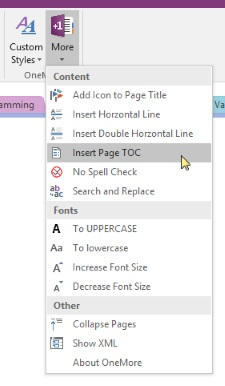
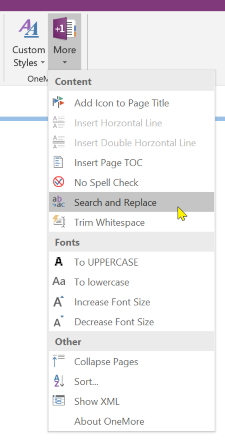
add sort command

Changed region(s): [[0.0, 0.0, 1.0, 0.9948], [0.0, 0.1865, 0.0311, 0.2176]]

diff --git a/OneMoreAddIn/Commands/SortCommand.cs b/OneMoreAddIn/Commands/SortCommand.cs
@@ -1,5 +1,5 @@
 //************************************************************************************************
-// Copyright © 2016 Steven M Cohn.  All rights reserved.
+// Copyright © 2019 Steven M Cohn.  All rights reserved.
 //************************************************************************************************
 
 namespace River.OneMoreAddIn
@@ -36,7 +36,7 @@ namespace River.OneMoreAddIn
 		{
 			logger.WriteLine("SortCommand.Execute()");
 
-			DialogResult result = DialogResult.None;
+			var result = DialogResult.None;
 
 			using (var dialog = new SortDialog())
 			{
@@ -71,15 +71,20 @@ namespace River.OneMoreAddIn
 
 						if (scope == HierarchyScope.hsNotebooks)
 						{
+							// notebooks is a simple flat list
 							root = SortNotebooks(root, sorting, direction);
 						}
 						else
 						{
 							// sections will include all sections for the current notebook
+							root = SortSections(root, sorting, direction);
 						}
 					}
 
-					manager.UpdateHierarchy(root);
+					if (root != null)
+					{
+						manager.UpdateHierarchy(root);
+					}
 				}
 			}
 		}
@@ -94,6 +99,11 @@ namespace River.OneMoreAddIn
 			 *		dateTime="2018-01-24T03:23:12.000Z"
 			 *		lastModifiedTime="2019-10-26T12:56:53.000Z"
 			 *		pageLevel="1" />
+			 *		
+			 * Pages within a section are stored as a flat list of elements with
+			 * indented pages indicated by pageLevel only - they are not recursive children.
+			 * So the code below must group child pages with their parent so all parents
+			 * can be sorted correctly. Children are not sorted.
 			 */
 
 			string keyName;
@@ -104,35 +114,31 @@ namespace River.OneMoreAddIn
 
 			var ns = root.GetNamespaceOfPrefix("one");
 
-			/*
-			var pages =
-				from p in root.Elements(ns + "Page")
-				// keep only printable characters (don't sort on title emoticons!)
-				let key = Regex.Replace(p.Attribute(keyName).Value, @"[^ -~]", "")
-				orderby key
-				select p;
-			*/
-
 			var pages = new List<PageNode>();
 
 			foreach (var child in root.Elements(ns + "Page"))
 			{
 				if (child.Attribute("pageLevel").Value == "1")
 				{
+					// found the next parent page
 					pages.Add(new PageNode(child));
 				}
 				else
 				{
+					// grouping child pages with the top parent
 					pages[pages.Count - 1].Children.Add(child);
 				}
 			}
 
+			// sort all parents by chosen key.
+			// regex keeps only printable characters (so we don't sort on title emoticons!)
 			pages =
 				(from p in pages
 				 let key = Regex.Replace(p.Page.Attribute(keyName).Value, @"[^ -~]", "")
 				 orderby key
 				 select p).ToList();
 
+			// reverse if descending
 			if (direction == SortDialog.Directions.Descending)
 			{
 				pages.Reverse();
@@ -140,6 +146,7 @@ namespace River.OneMoreAddIn
 
 			root.RemoveNodes();
 
+			// recreate flat list
 			foreach (var page in pages)
 			{
 				root.Add(page.Page);
@@ -150,9 +157,83 @@ namespace River.OneMoreAddIn
 				}
 			}
 
-			//root.ReplaceNodes(pages);
-
 			return root;
+		}
+
+
+		private XElement SortSections(
+			XElement root, SortDialog.Sortings sorting, SortDialog.Directions direction)
+		{
+			/*
+			 * <one:Notebooks xmlns:one="http://schemas.microsoft.com/office/onenote/2013/onenote">
+			 *   <one:Notebook name="Personal" nickname="Personal" ID="{CA.."
+			 *      path="https://d.docs.live.net/../Personal/"
+			 *      lastModifiedTime="2020-03-04T22:28:34.000Z"
+			 *      color="#FFD869"
+			 *      isCurrentlyViewed="true">
+			 *     <one:Section 
+			 *          name="Notes" 
+			 *          ID="{41.." 
+			 *          path="https://d.docs.live.net/../Personal/Notes.one" 
+			 *          lastModifiedTime="2020-03-03T15:59:21.000Z" 
+			 *          color="#F6B078" />
+			 *     <one:Section name="Automobiles" ID="{EC.." path="https://d.docs.live.net/../Personal/Automobiles.one" lastModifiedTime="2018-09-27T16:03:28.000Z" color="#9BBBD2" />
+			 *     <one:SectionGroup name="OneNote_RecycleBin" ID="{09.." path="https://d.docs.live.net/../Personal/OneNote_RecycleBin/" lastModifiedTime="2020-03-04T00:00:32.000Z" isRecycleBin="true">
+			 *       <one:Section name="Deleted Pages" ID="{8A.." path="https://d.docs.live.net/../Personal/OneNote_RecycleBin/OneNote_DeletedPages.one" lastModifiedTime="2020-03-04T00:00:32.000Z" color="#E1E1E1" isInRecycleBin="true" isDeletedPages="true" />
+			 *     </one:SectionGroup>
+			 *   </one:Notebook>
+			 * </one:Notebooks>
+			 *
+			 * Sort top-level sections only; ignore section groups.
+			 */
+
+			var ns = root.GetNamespaceOfPrefix("one");
+
+			System.Diagnostics.Debugger.Launch();
+
+			// find current notebook node; this is the one we want to edit
+			var notebook =
+				(from n in root.Elements(ns + "Notebook")
+				 where n.Attribute("isCurrentlyViewed")?.Value == "true"
+				 select n).FirstOrDefault();
+
+			if (notebook != null)
+			{
+				var keyName = sorting == SortDialog.Sortings.ByModified
+					? "lastModifiedTime"
+					: "name";
+
+				// get all top level sections sorted by key
+				var sections =
+					from s in notebook.Elements(ns + "Section")
+					let key = Regex.Replace(s.Attribute(keyName).Value, @"[^ -~]", "")
+					orderby key
+					select s;
+
+				// reverse if descending
+				if (direction == SortDialog.Directions.Descending)
+				{
+					sections.Reverse();
+				}
+
+				// .Remove will remove from "sections" IEnumerable so add to new list
+				var list = new List<XElement>();
+				foreach (var section in sections)
+				{
+					list.Insert(0, section);
+					section.Remove();
+				}
+
+				// re-insert sorted sections into notebook
+				foreach (var section in list)
+				{
+					notebook.AddFirst(section);
+				}
+
+				return root;
+			}
+
+			return null;
 		}
 
 
@@ -164,21 +245,22 @@ namespace River.OneMoreAddIn
 			 *		name="Personal"
 			 *		nickname="Personal"
 			 *		ID="{CAE56365-6026-4E6C-A313-667D6FEBE5D8}{1}{B0}"
-			 *		path="https://d.docs.live.net/6925d0374517d4b4/Documents/Personal/"
+			 *		path="https://d.docs.live.net/../Personal/"
 			 *		lastModifiedTime="2020-03-04T00:00:32.000Z"
 			 *		color="#FFD869" />
 			 */
 
 			// nickname is display name whereas name is the folder name
-			string keyName = sorting == SortDialog.Sortings.ByModified 
+			var keyName = sorting == SortDialog.Sortings.ByModified 
 				? "lastModifiedTime" 
 				: "nickname";
 
 			var ns = root.GetNamespaceOfPrefix("one");
 
+			// sort all notebooks by chosen key.
+			// regex keeps only printable characters (so we don't sort on title emoticons!)
 			var books =
 				from p in root.Elements(ns + "Notebook")
-				// keep only printable characters (don't sort on title emoticons!)
 				let key = Regex.Replace(p.Attribute(keyName).Value, @"[^ -~]", "")
 				orderby key
 				select p;

diff --git a/OneMoreAddIn/Dialogs/SortDialog.cs b/OneMoreAddIn/Dialogs/SortDialog.cs
@@ -1,8 +1,9 @@
 //************************************************************************************************
-// Copyright © 2016 Steven M Cohn.  All rights reserved.
+// Copyright © 2019 Steven M Cohn.  All rights reserved.
 //************************************************************************************************
 
 #pragma warning disable CS3003 // Type is not CLS-compliant
+#pragma warning disable IDE1006 // Naming Styles
 
 namespace River.OneMoreAddIn
 {
@@ -90,19 +91,12 @@ namespace River.OneMoreAddIn
 
 		private void scopeBox_SelectedIndexChanged(object sender, EventArgs e)
 		{
-			if (scopeBox.SelectedIndex == 2)
+			if (!(createdButton.Enabled = (scopeBox.SelectedIndex == 0)))
 			{
 				if (createdButton.Checked)
 				{
 					nameButton.Checked = true;
 				}
-
-				createdButton.Enabled = false;
-
-			}
-			else
-			{
-				createdButton.Enabled = true;
 			}
 		}
 	}
